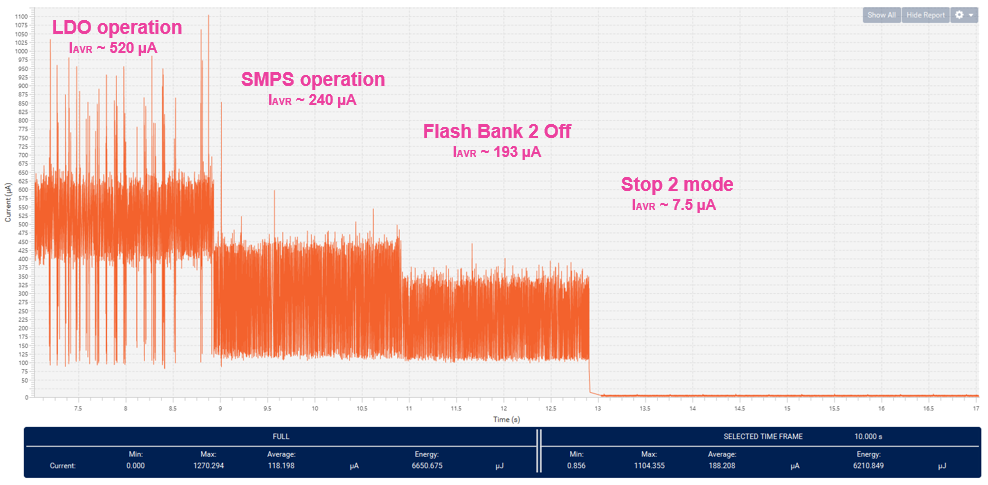
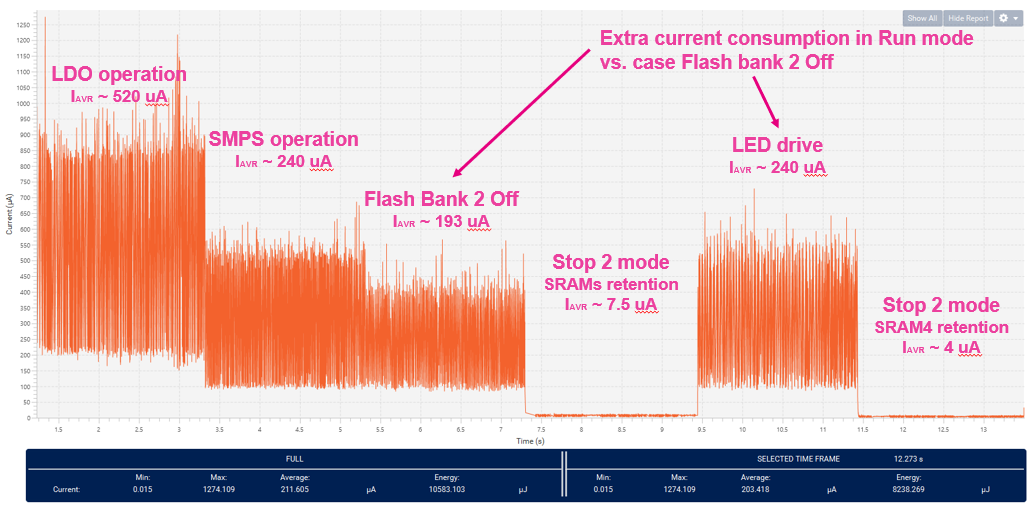
rest gifs added

diff --git a/lpmodes/lpmodes_handson_result.md b/lpmodes/lpmodes_handson_result.md
@@ -2,11 +2,17 @@
 Presentation
 ----!
 
-# Measure consumption
+# Measured consumption
 ![image](./img/combo.png)
 
 ## Measure consumption in Stop 2 mode given by SRAMs retention off
 - Consumption is reduced to aprrox. 4 uA.
+- Triangle wave due to Low Power regulator operation
 
 ![image](./img/stop2.png)
-  
+
+## Higher consumption in Run sequence when LED is driven
+- Extra current consumption is given by biasing of BJT transistor.
+- LED is not driven directly from GPIO thus LED current is not visible and measured.
+
+![image](./img/gpio_bjt.png)

diff --git a/lpmodes/lpmodes_handson_cubeide.md b/lpmodes/lpmodes_handson_cubeide.md
@@ -3,9 +3,9 @@ Presentation
 ----!
 
 # CubeIDE
-- Open **CubeIDE** and related LP_mode project
+- Open **CubeIDE** and related `ULP mode` project
 
-![gif3](./img/xxx.gif)
+![gif3](./img/open_project.gif)
 
 # Flash linker script
 In hands-on we disable Flash Bank 2 and disable data retention in almost all SRAMs except 16kB in SRAM4. To avoid any HardFault error or random values founded in variables a correct memory allocation must be defined in *linker script STM32U575ZITX_FLASH.ld*.

diff --git a/lpmodes/lpmodes_handson_project.md b/lpmodes/lpmodes_handson_project.md
@@ -5,13 +5,13 @@ Presentation
 # Open CubeMx or CubeMX plugin in CubeIDE
 Press **Access to MCU selector**
 <p> </p>
-![gif](./img/introsmall1.gif)
+![gif](./img/mcu_select.gif)
 
 # Select STM32U575ZI
 <p> </p>
-![gif](./img/introsmall1.gif)
+![gif](./img/u575.gif)
 
 # Open project **without TrustZone activated**
 <p> </p>
-![gif](./img/introsmall1.gif)
+![gif](./img/tz.gif)
   

diff --git a/lpmodes/lpmodes_handson_powmon.md b/lpmodes/lpmodes_handson_powmon.md
@@ -82,4 +82,12 @@ In Configuration window many parameters can be adjusted. For hands-on purpose le
 
 ![gif2](./img/CubeMX_PwrMon_Conf.gif)
 
+# Show report
+- FULL and SELECT FRAME consumption details (Min, Max, Average, Energy)
+- Acqusition must be **stoped**
+- Press **Show Report**
+
+![gif3](./img/showreport.gif)
+
+
 

diff --git a/lpmodes/lpmodes_handson_cubemx.md b/lpmodes/lpmodes_handson_cubemx.md
@@ -5,7 +5,7 @@ Presentation
 # Cache
 - Enable **ICACHE 1-way (direct mapped cache)**
 
-![gif3](./img/xxx.gif)
+![gif3](./img/icache.gif)
 
 # GPIO
 - Configure PC7 (Green LED) as Output Push-Pull. Right click on `PC7` and set as `GPIO_Output`
